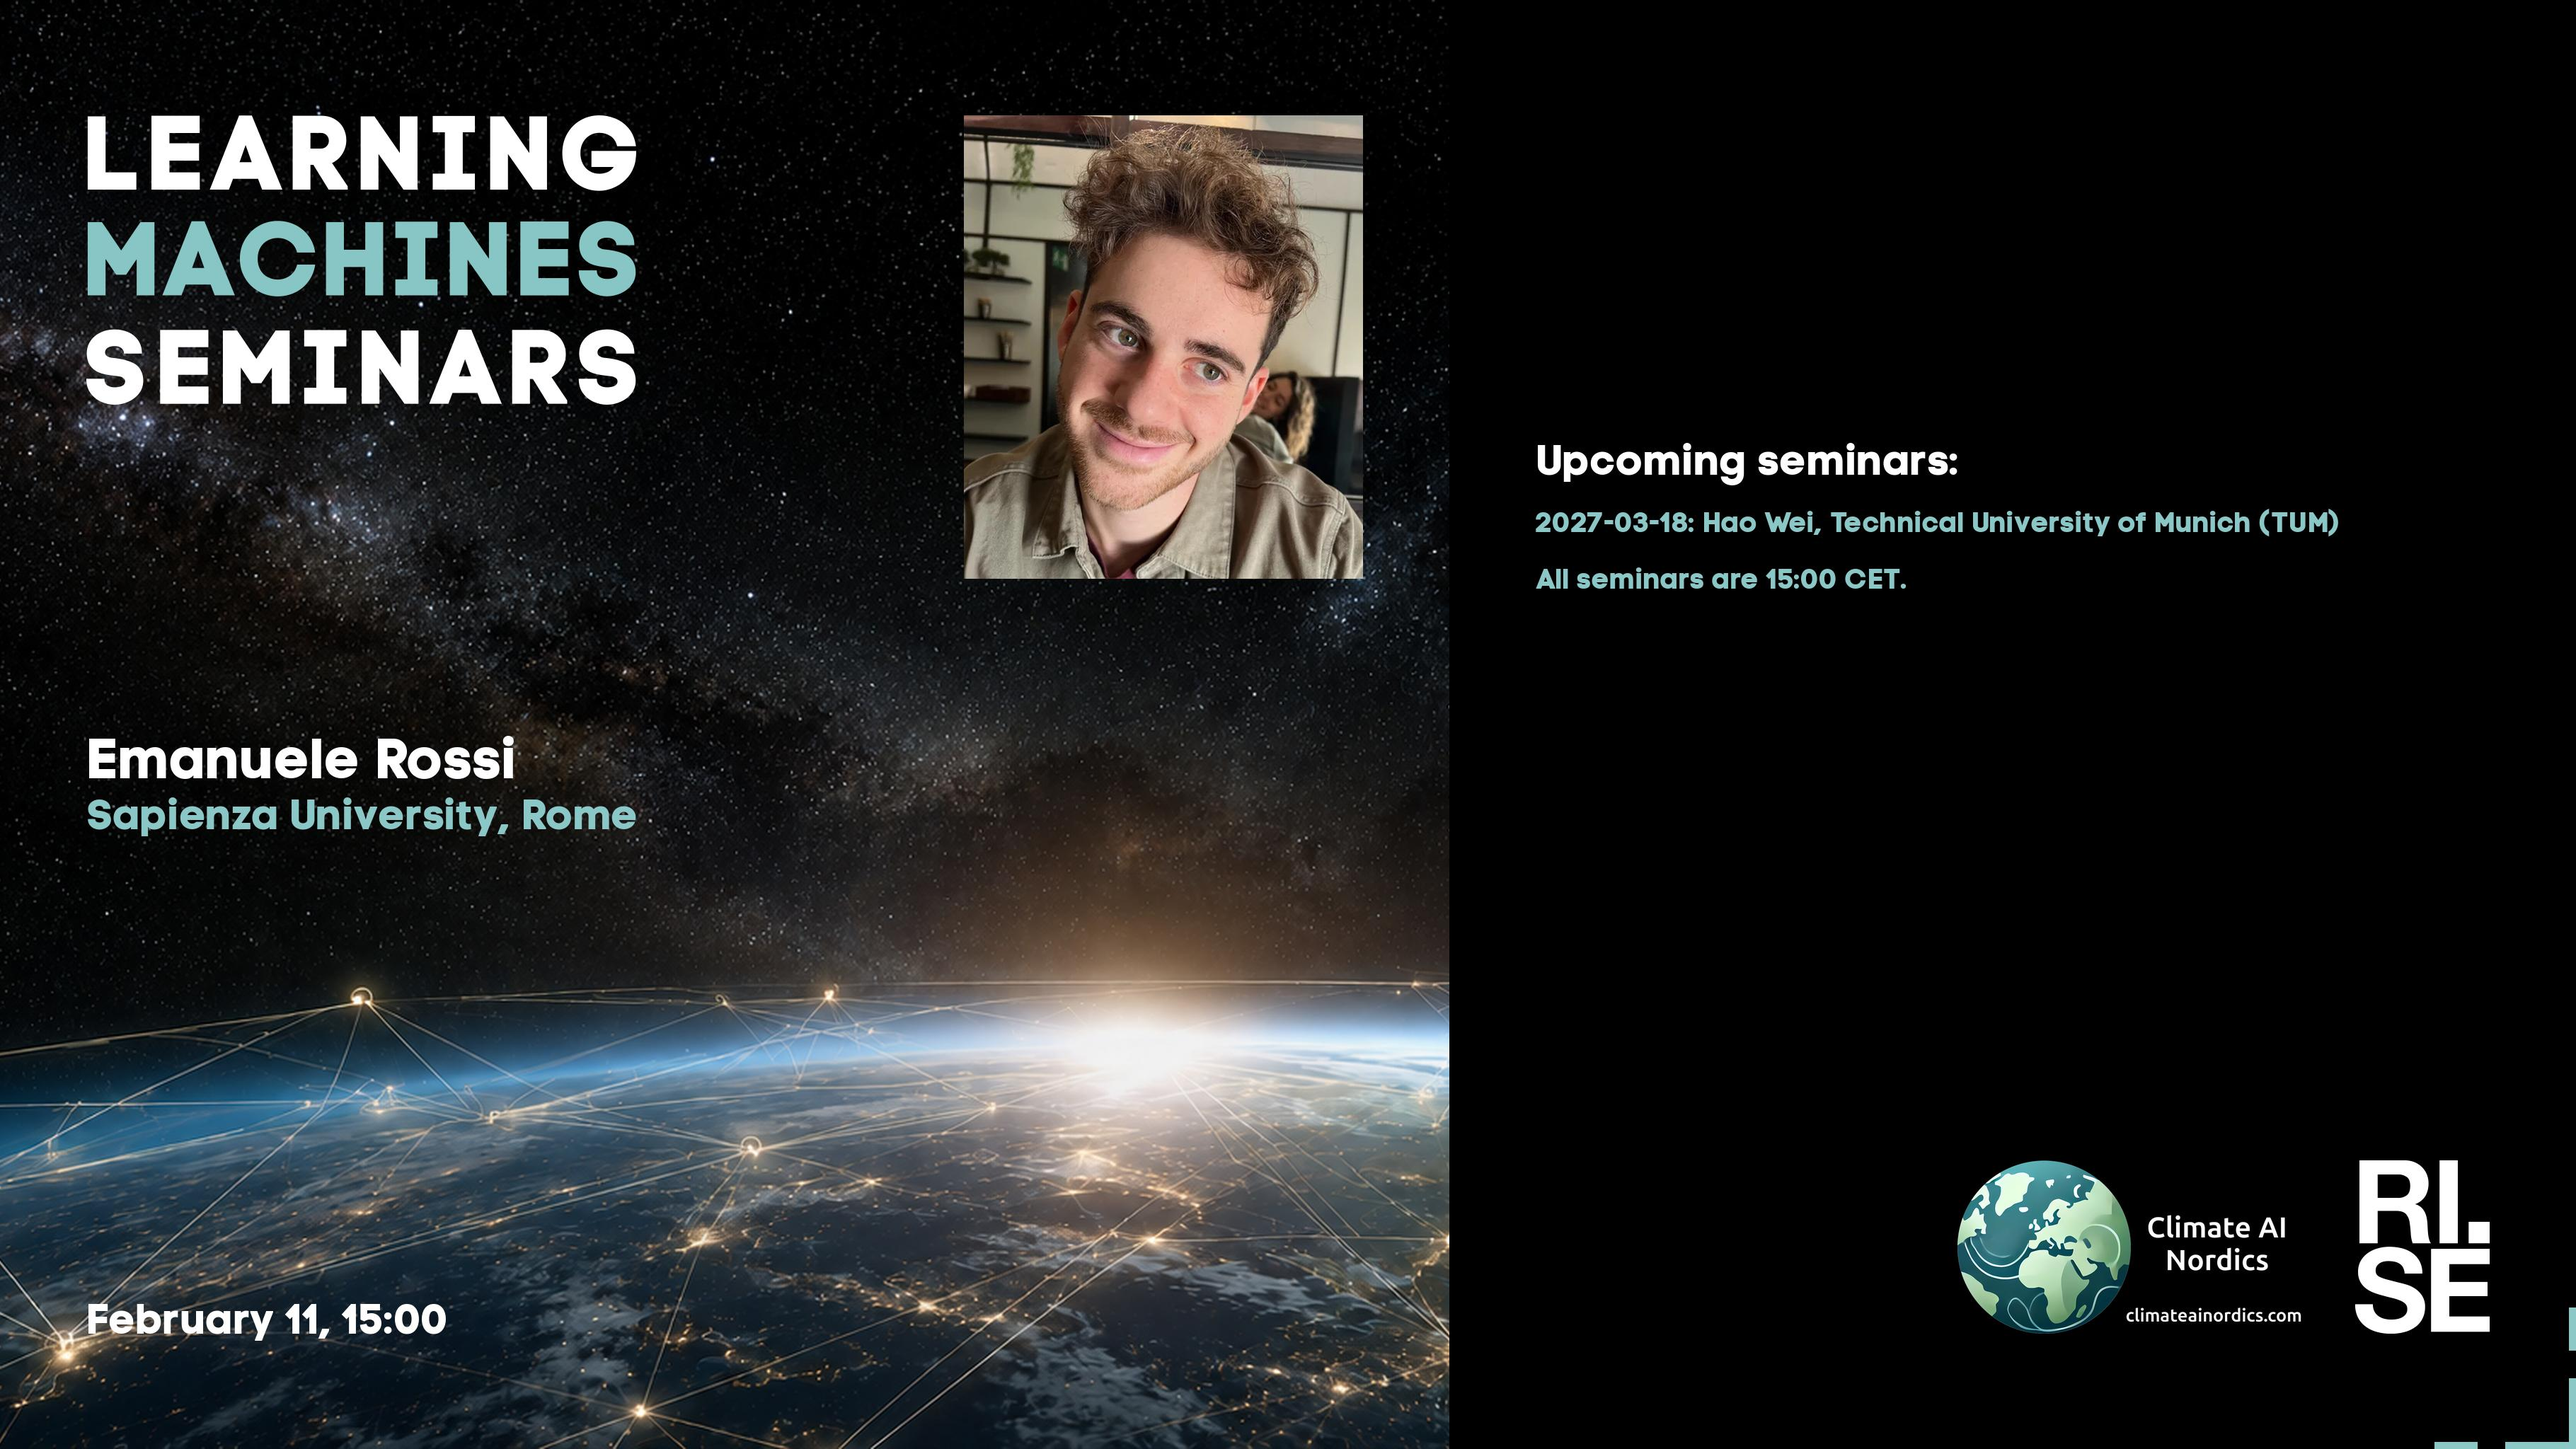
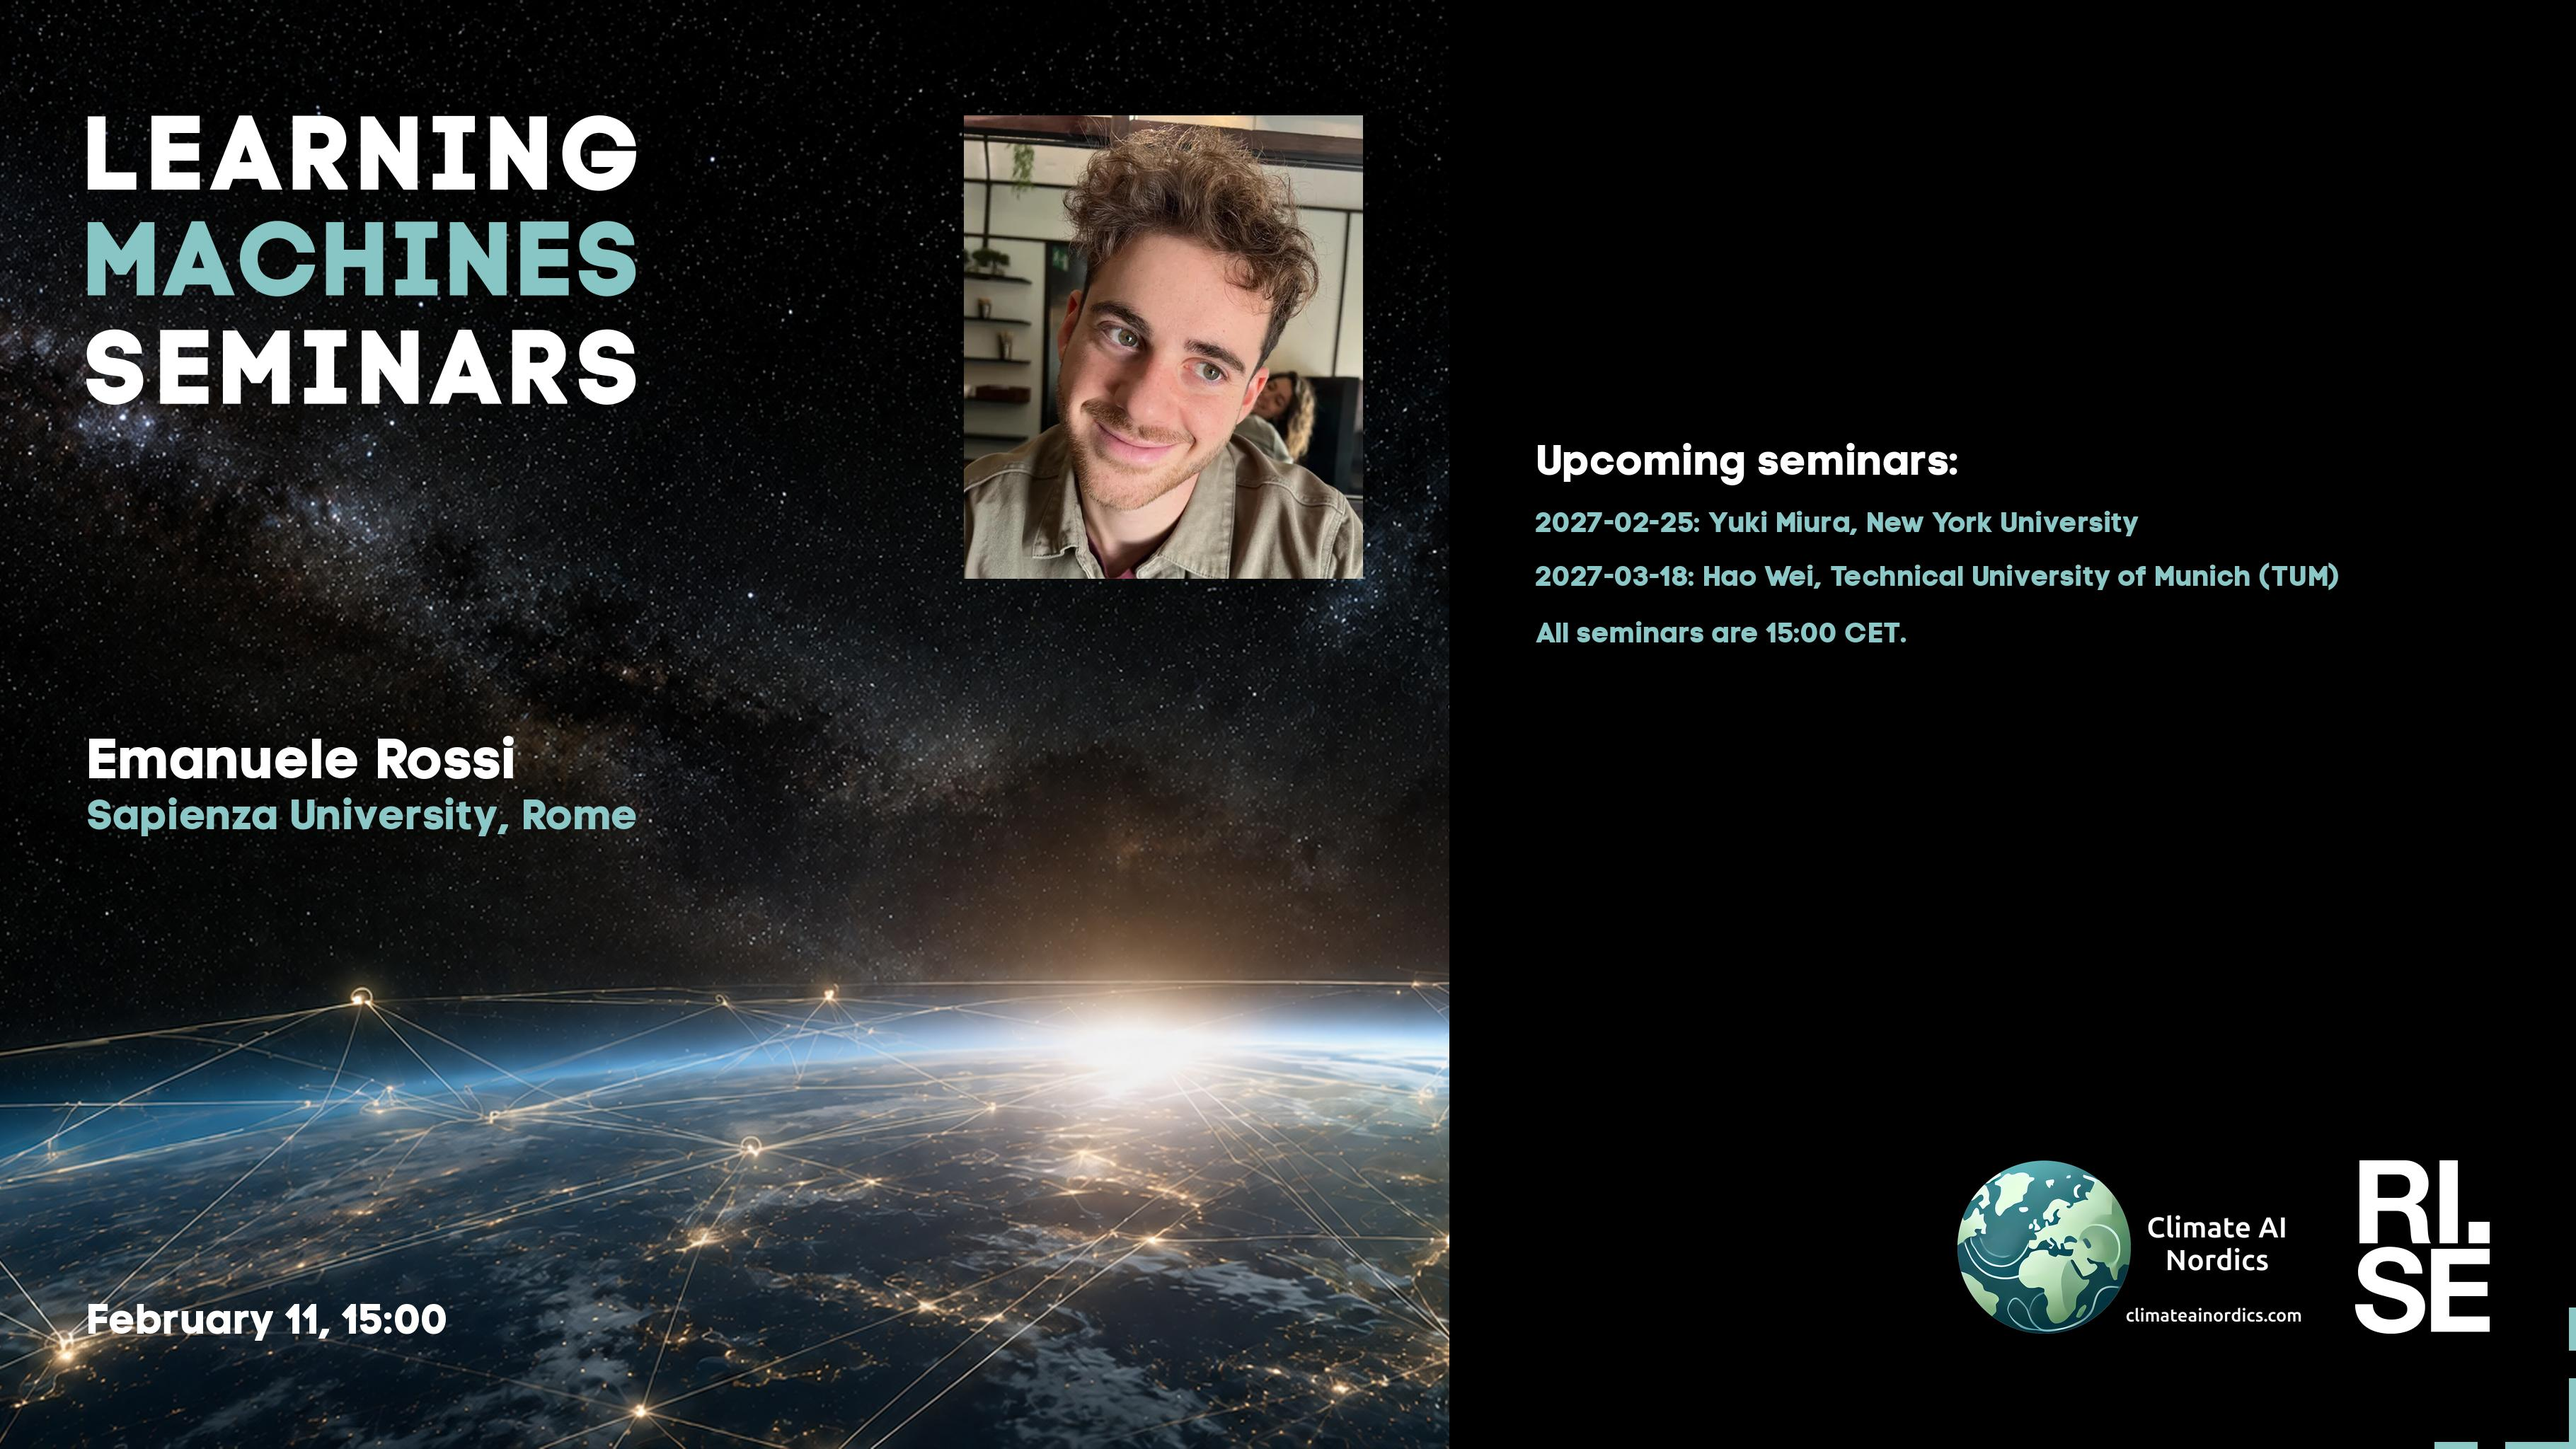
Updated plan on web site.

Changed region(s): [[0.5898, 0.3438, 0.9003, 0.4688]]

diff --git a/lm/2026.md b/lm/2026.md
@@ -56,7 +56,7 @@ table {border-collapse: collapse;}
 | <span style="color:red"> 2027-02-04 </span> | <span style="color:red"> BI-WEEKLY PAUSE </span> | <span style="color:red">  </span> | <span style="color:red">  ---  ---  </span> | <span style="color:red">  </span> | <span style="color:red">  </span> | <span style="color:red"> CANCELLED </span> |
 |  2027-02-11  |  [Emanuele Rossi, Sapienza University, Rome](2027-02-11.md)  |  [photo](2027-02-11-photo-emanuele-rossi.webp)  |  [social media bg ](2027-02-11-social-media-bg-emanuele-rossi.jpg) --- [social media photo ](2027-02-11-social-media-photo-emanuele-rossi.jpg) --- [social media 169 ](2027-02-11-social-media-169-emanuele-rossi.jpg)  |  [meeting backdrop ](2027-02-11-meeting-backdrop-emanuele-rossi.jpg)  |  [youtube thumbnail ](2027-02-11-youtube-thumbnail-emanuele-rossi.jpg)  |  S~~TA~~BP  |
 | <span style="color:red"> 2027-02-18 </span> | <span style="color:red"> Winter break </span> | <span style="color:red">  </span> | <span style="color:red">  ---  ---  </span> | <span style="color:red">  </span> | <span style="color:red">  </span> | <span style="color:red"> CANCELLED </span> |
-| <span style="color:grey"> 2027-02-25 </span> | <span style="color:grey"> Yuki M. ? </span> | <span style="color:grey">  </span> | <span style="color:grey">  ---  ---  </span> | <span style="color:grey">  </span> | <span style="color:grey">  </span> | <span style="color:grey"> S~~TABP~~ </span> |
+|  2027-02-25  |  [Yuki Miura, New York University](2027-02-25.md)  |    |  [social media bg ](2027-02-25-social-media-bg-yuki-miura.jpg) --- [social media photo ](2027-02-25-social-media-photo-yuki-miura.jpg) --- [social media 169 ](2027-02-25-social-media-169-yuki-miura.jpg)  |  [meeting backdrop ](2027-02-25-meeting-backdrop-yuki-miura.jpg)  |  [youtube thumbnail ](2027-02-25-youtube-thumbnail-yuki-miura.jpg)  |  S~~TABP~~  |
 | <span style="color:red"> 2027-03-04 </span> | <span style="color:red"> BI-WEEKLY PAUSE </span> | <span style="color:red">  </span> | <span style="color:red">  ---  ---  </span> | <span style="color:red">  </span> | <span style="color:red">  </span> | <span style="color:red"> CANCELLED </span> |
 | <span style="color:grey"> 2027-03-11 </span> | <span style="color:grey"> Shirish B. ? </span> | <span style="color:grey">  </span> | <span style="color:grey">  ---  ---  </span> | <span style="color:grey">  </span> | <span style="color:grey">  </span> | <span style="color:grey"> S~~TABP~~ </span> |
 |  2027-03-18  |  [Hao Wei, Technical University of Munich (TUM)](2027-03-18.md)  |  [photo](2027-03-18-photo-hao-wei.jpg)  |  [social media bg ](2027-03-18-social-media-bg-hao-wei.jpg) --- [social media photo ](2027-03-18-social-media-photo-hao-wei.jpg) --- [social media 169 ](2027-03-18-social-media-169-hao-wei.jpg)  |  [meeting backdrop ](2027-03-18-meeting-backdrop-hao-wei.jpg)  |  [youtube thumbnail ](2027-03-18-youtube-thumbnail-hao-wei.jpg)  |  S~~TA~~BP  |

diff --git a/lm/index.md b/lm/index.md
@@ -56,7 +56,7 @@ table {border-collapse: collapse;}
 | <span style="color:red"> 2027-02-04 </span> | <span style="color:red"> BI-WEEKLY PAUSE </span> | <span style="color:red">  </span> | <span style="color:red">  ---  ---  </span> | <span style="color:red">  </span> | <span style="color:red">  </span> | <span style="color:red"> CANCELLED </span> |
 |  2027-02-11  |  [Emanuele Rossi, Sapienza University, Rome](2027-02-11.md)  |  [photo](2027-02-11-photo-emanuele-rossi.webp)  |  [social media bg ](2027-02-11-social-media-bg-emanuele-rossi.jpg) --- [social media photo ](2027-02-11-social-media-photo-emanuele-rossi.jpg) --- [social media 169 ](2027-02-11-social-media-169-emanuele-rossi.jpg)  |  [meeting backdrop ](2027-02-11-meeting-backdrop-emanuele-rossi.jpg)  |  [youtube thumbnail ](2027-02-11-youtube-thumbnail-emanuele-rossi.jpg)  |  S~~TA~~BP  |
 | <span style="color:red"> 2027-02-18 </span> | <span style="color:red"> Winter break </span> | <span style="color:red">  </span> | <span style="color:red">  ---  ---  </span> | <span style="color:red">  </span> | <span style="color:red">  </span> | <span style="color:red"> CANCELLED </span> |
-| <span style="color:grey"> 2027-02-25 </span> | <span style="color:grey"> Yuki M. ? </span> | <span style="color:grey">  </span> | <span style="color:grey">  ---  ---  </span> | <span style="color:grey">  </span> | <span style="color:grey">  </span> | <span style="color:grey"> S~~TABP~~ </span> |
+|  2027-02-25  |  [Yuki Miura, New York University](2027-02-25.md)  |    |  [social media bg ](2027-02-25-social-media-bg-yuki-miura.jpg) --- [social media photo ](2027-02-25-social-media-photo-yuki-miura.jpg) --- [social media 169 ](2027-02-25-social-media-169-yuki-miura.jpg)  |  [meeting backdrop ](2027-02-25-meeting-backdrop-yuki-miura.jpg)  |  [youtube thumbnail ](2027-02-25-youtube-thumbnail-yuki-miura.jpg)  |  S~~TABP~~  |
 | <span style="color:red"> 2027-03-04 </span> | <span style="color:red"> BI-WEEKLY PAUSE </span> | <span style="color:red">  </span> | <span style="color:red">  ---  ---  </span> | <span style="color:red">  </span> | <span style="color:red">  </span> | <span style="color:red"> CANCELLED </span> |
 | <span style="color:grey"> 2027-03-11 </span> | <span style="color:grey"> Shirish B. ? </span> | <span style="color:grey">  </span> | <span style="color:grey">  ---  ---  </span> | <span style="color:grey">  </span> | <span style="color:grey">  </span> | <span style="color:grey"> S~~TABP~~ </span> |
 |  2027-03-18  |  [Hao Wei, Technical University of Munich (TUM)](2027-03-18.md)  |  [photo](2027-03-18-photo-hao-wei.jpg)  |  [social media bg ](2027-03-18-social-media-bg-hao-wei.jpg) --- [social media photo ](2027-03-18-social-media-photo-hao-wei.jpg) --- [social media 169 ](2027-03-18-social-media-169-hao-wei.jpg)  |  [meeting backdrop ](2027-03-18-meeting-backdrop-hao-wei.jpg)  |  [youtube thumbnail ](2027-03-18-youtube-thumbnail-hao-wei.jpg)  |  S~~TA~~BP  |

diff --git a/lm/2027-02-25.md b/lm/2027-02-25.md
@@ -1,0 +1,35 @@
+---
+layout: default
+metatags: "<meta name=\"robots\" content=\"noindex,nofollow\" />"
+---
+<img src="/lm/2027-02-25-social-media-169-yuki-miura.jpg" />
+ 
+Welcome to this week's Learning Machines seminar.
+
+This seminar is a collaboration between RISE and Climate AI Nordics -- [climateainordics.com](https://climateainordics.com/).
+
+**Title:** N/A
+
+**Speaker:** Yuki Miura, New York University
+
+**Abstract:** N/A
+
+**About the speaker:** N/A
+
+**Location:** This is an online seminar. Connect using Zoom.
+
+**Date:** 2027-02-25 15:00
+
+
+
+**Upcoming seminars:**
+
+* 2027-03-18: Hao Wei, Technical University of Munich (TUM)
+* All seminars are 15:00 CET.
+
+More information and coming seminars: [https://learningmachines.se](https://learningmachines.se)
+
+-- The Learning Machines Team
+
+**Zoom link:** [https://rise.zoom.us/j/62207309827?pwd=EFMNPpquIaVeX2GhiLX96BZRbmAy8W.1](https://rise.zoom.us/j/62207309827?pwd=EFMNPpquIaVeX2GhiLX96BZRbmAy8W.1)
+

diff --git a/lm/statistics-2027.md b/lm/statistics-2027.md
@@ -10,11 +10,11 @@ title: Learning Machines Statistics 2027
 
 
 
-## 4 speakers
+## 5 speakers
 
-Emanuele Rossi, Hao Wei, Maria Perez Ortiz, Nicola Messina
+Emanuele Rossi, Hao Wei, Maria Perez Ortiz, Nicola Messina, Yuki Miura
 
-## 4 affiliations
+## 5 affiliations
 
-ISTI-CNR, Sapienza University, Rome, Technical University of Munich (TUM), University College London
+ISTI-CNR, New York University, Sapienza University, Rome, Technical University of Munich (TUM), University College London
 

diff --git a/lm/2027-02-11.md b/lm/2027-02-11.md
@@ -24,6 +24,7 @@ This seminar is a collaboration between RISE and Climate AI Nordics -- [climatea
 
 **Upcoming seminars:**
 
+* 2027-02-25: Yuki Miura, New York University
 * 2027-03-18: Hao Wei, Technical University of Munich (TUM)
 * All seminars are 15:00 CET.
 
